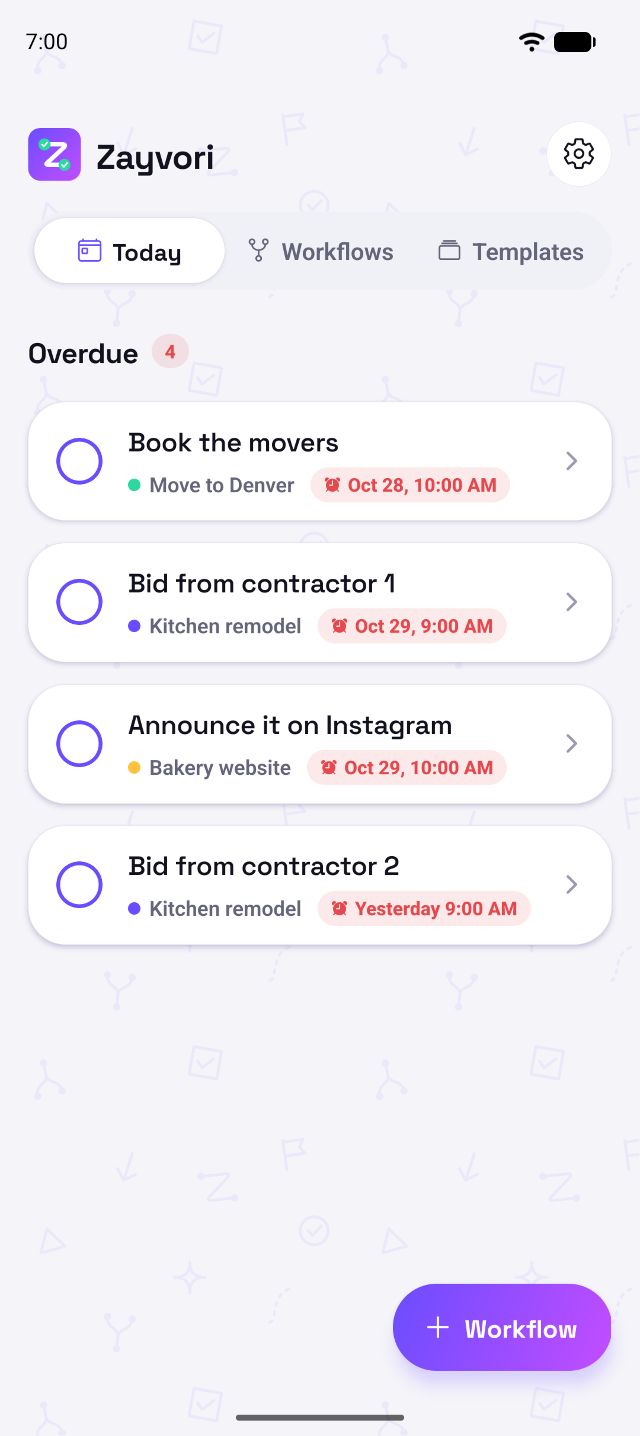
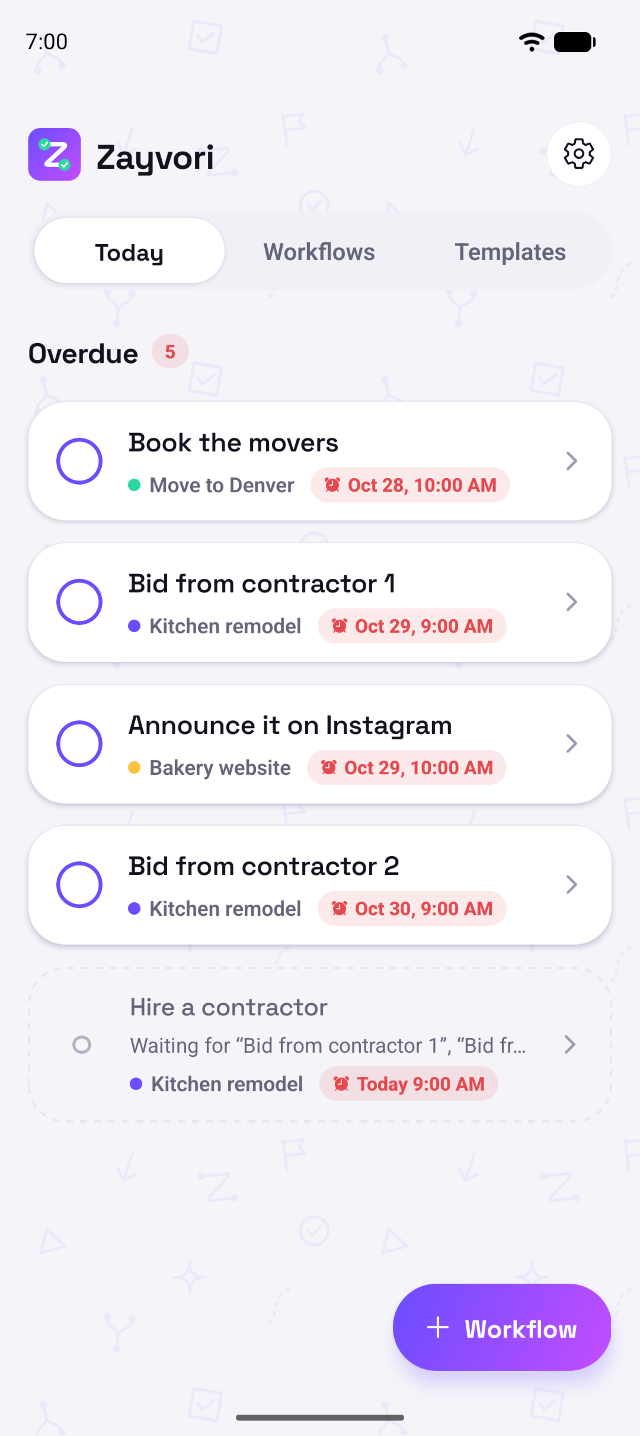
Today, sending templates and repeating workflows
Home page: a Today section (every plan's overdue, due-today and ready tasks
in one place, and the offer to move later tasks after a late tick); sending
a template in the Templates section; "Plans that come round again" for
repeating workflows; How it works mentions ticking off on Today. New
screenshots: Today and the bigger Describe it box. Privacy policy: templates
you send. CLAUDE.md: the features and the narrower "don't claim" list.

diff --git a/index.html b/index.html
@@ -159,13 +159,31 @@
       </div>
     </section>
 
+    <!-- TODAY -->
+    <section class="section" id="today">
+      <div class="container describe">
+        <div class="describe__copy fade">
+          <span class="eyebrow">Today</span>
+          <h2>Everything for today, from every plan</h2>
+          <p>Moving house, a kitchen remodel and a birthday party all at once? The Today tab gathers what’s overdue, what’s due today and what you can do next, across all of them. Tick it off right there.</p>
+          <p>Running late? Tick off a task a few days behind and Zayvori offers to move what comes after it, so nothing ends up due too soon.</p>
+        </div>
+        <div class="describe__shots fade">
+          <div class="phone phone--shot phone--small">
+            <img src="assets/screens/today.png" width="640" height="1436" loading="lazy"
+              alt="The Today tab: overdue tasks from three workflows, each with its workflow’s name and due date, and one still waiting on two bids." />
+          </div>
+        </div>
+      </div>
+    </section>
+
     <!-- TEMPLATES -->
     <section class="section doodles" id="templates">
       <div class="container">
         <div class="section__head fade">
           <span class="eyebrow">Templates</span>
           <h2>Start from a plan that’s already thought through</h2>
-          <p>Pick a template, choose a start date, and every due date falls into place. Save any workflow as your own template and reuse it as often as you like.</p>
+          <p>Pick a template, choose a start date, and every due date falls into place. Save any workflow as your own template and reuse it as often as you like, or send it to a friend: they open it in Zayvori and get the whole plan, ready to start.</p>
         </div>
         <div class="templates">
           <article class="tpl fade">
@@ -227,8 +245,8 @@
           </article>
           <article class="feature fade">
             <div class="feature__icon"><svg viewBox="0 0 24 24" fill="none" stroke="currentColor" stroke-width="2" stroke-linecap="round" stroke-linejoin="round" aria-hidden="true"><path d="M17 2l4 4-4 4"/><path d="M3 11v-1a4 4 0 0 1 4-4h14"/><path d="M7 22l-4-4 4-4"/><path d="M21 13v1a4 4 0 0 1-4 4H3"/></svg></div>
-            <h3>Done it before? Run it again</h3>
-            <p>Run a finished workflow again, or duplicate one as a starting point. The copy starts fresh, with its dates counted from today.</p>
+            <h3>Plans that come round again</h3>
+            <p>Set monthly bills, a quarterly tax return or a yearly car service to repeat, and the next round starts by itself, right on schedule. Or run any finished workflow again in a tap.</p>
           </article>
         </div>
       </div>
@@ -252,7 +270,7 @@
           </div>
           <div class="step fade">
             <h3>Do what’s next</h3>
-            <p>Tick tasks off in the app or from a reminder. What’s next unlocks by itself, until the last tick finishes the job.</p>
+            <p>Tick tasks off on Today, in the workflow or from a reminder. What’s next unlocks by itself, until the last tick finishes the job.</p>
           </div>
         </div>
       </div>

diff --git a/privacy.html b/privacy.html
@@ -35,7 +35,7 @@
       <div class="container">
         <span class="eyebrow">Legal</span>
         <h1>Privacy Policy</h1>
-        <p>Last updated: 29 October 2026</p>
+        <p>Last updated: 1 November 2026</p>
       </div>
     </section>
 
@@ -55,6 +55,7 @@
             <li><strong>Home-screen widget.</strong> If you add the Ready now widget, it shows your next tasks on your home screen. It reads them from the app on your phone; nothing is sent anywhere.</li>
             <li><strong>Notification permission</strong> is only used to show those reminders. You can turn reminders off in the app under Settings → Reminders, or in your phone's settings.</li>
             <li><strong>Backups you make</strong> in Settings → Your data are files you save wherever you choose, such as Google Drive or email. We never receive them.</li>
+            <li><strong>Templates you send</strong> are files you share through your phone, such as by message or email. They hold only the plan (task names, notes, links and relative dates), not your progress, and go only to the people you send them to. We never receive them.</li>
             <li><strong>Android's own backup.</strong> Your phone may copy app data to your personal Google account so it can be restored on a new phone. That backup is yours: we cannot see or read it. You can turn it off in your phone's settings.</li>
           </ul>
 

diff --git a/CLAUDE.md b/CLAUDE.md
@@ -27,11 +27,11 @@ Static marketing and legal website for **Zayvori**, the Android to-do app where 
 
 ## What the app does (keep copy aligned)
 
-Workflows from Start to Finish; tasks branch, run side by side and merge; "finish all of them" or "any one is enough" before a step; unneeded tasks are set aside automatically; **To do** view (ready now / coming up / done) and **Map** view; one-tap complete with Undo; due dates; reminders (due soon, due now, morning summary) with **Mark complete / Dismiss** on the notification; progress "x of y"; confetti on finish; light/dark/system theme; background pattern; **templates** (four starters, save any workflow as one, due dates follow the start date); duplicate / run again (a fresh copy, dates counted from today); **moving a date later offers to move the tasks it pushes too early**, keeping the gaps; the **Ready now home-screen widget** (Android; tick tasks off from it); **backup to a file** the user keeps anywhere, and restore. **Everything on the phone: no account, no server, no sync, no analytics.**
+Workflows from Start to Finish; tasks branch, run side by side and merge; "finish all of them" or "any one is enough" before a step; unneeded tasks are set aside automatically; **To do** view (ready now / coming up / done) and **Map** view; one-tap complete with Undo; due dates; reminders (due soon, due now, morning summary) with **Mark complete / Dismiss** on the notification; progress "x of y"; confetti on finish; light/dark/system theme; background pattern; **templates** (four starters, save any workflow as one, due dates follow the start date); duplicate / run again (a fresh copy, dates counted from today); **moving a date later offers to move the tasks it pushes too early**, keeping the gaps; the **Ready now home-screen widget** (Android; tick tasks off from it); the **Today tab** (overdue, due today and ready next across every workflow; a late tick offers to move later tasks); **repeating workflows** (weekly to yearly, the next round starts itself on a fixed schedule); **send a template** to someone as a file, opened in Zayvori; choose which tab the app **starts on**; **backup to a file** the user keeps anywhere, and restore. **Everything on the phone: no account, no server, no sync, no analytics.**
 
 **Describe it** (when shipped): type or say a plan and Claude drafts the workflow; only the typed description leaves the phone (privacy.html → Describe it). Keep any privacy claim on the site consistent with that.
 
-Not features (don't claim): accounts, automatic cloud sync, sharing or collaboration, repeating/looping tasks, iOS.
+Not features (don't claim): accounts, automatic cloud sync, live sharing or collaboration (sending a template file is fine to claim), repeating single tasks (whole workflows repeat), iOS.
 
 **Selling, not describing:** lead with the outcome (only what you can do today) and a recognizable situation (moving, remodeling, events); show the before/after; mechanism words ("branch", "merge") come after.
 
